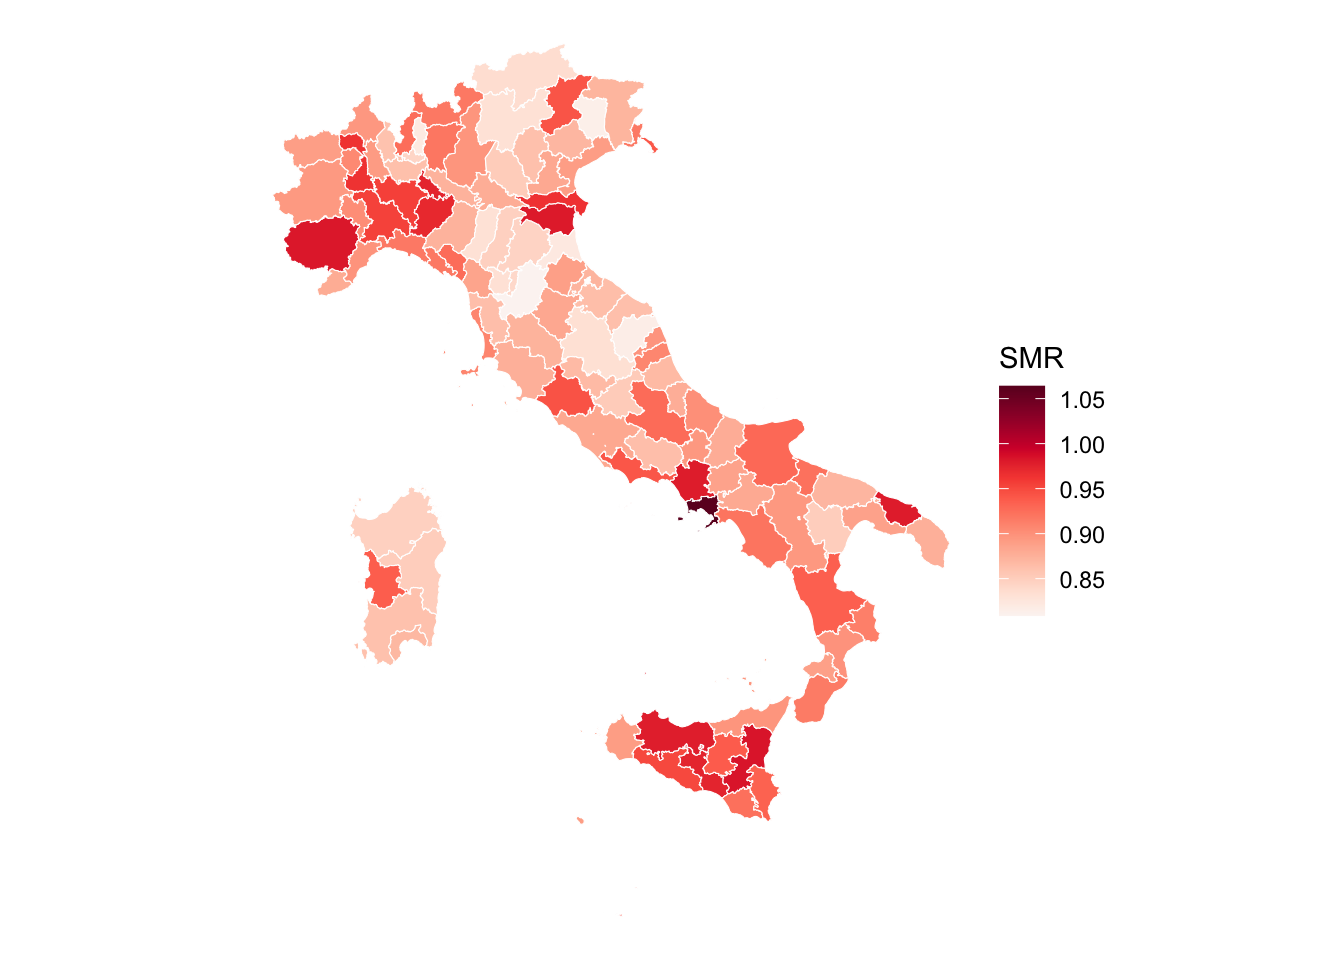
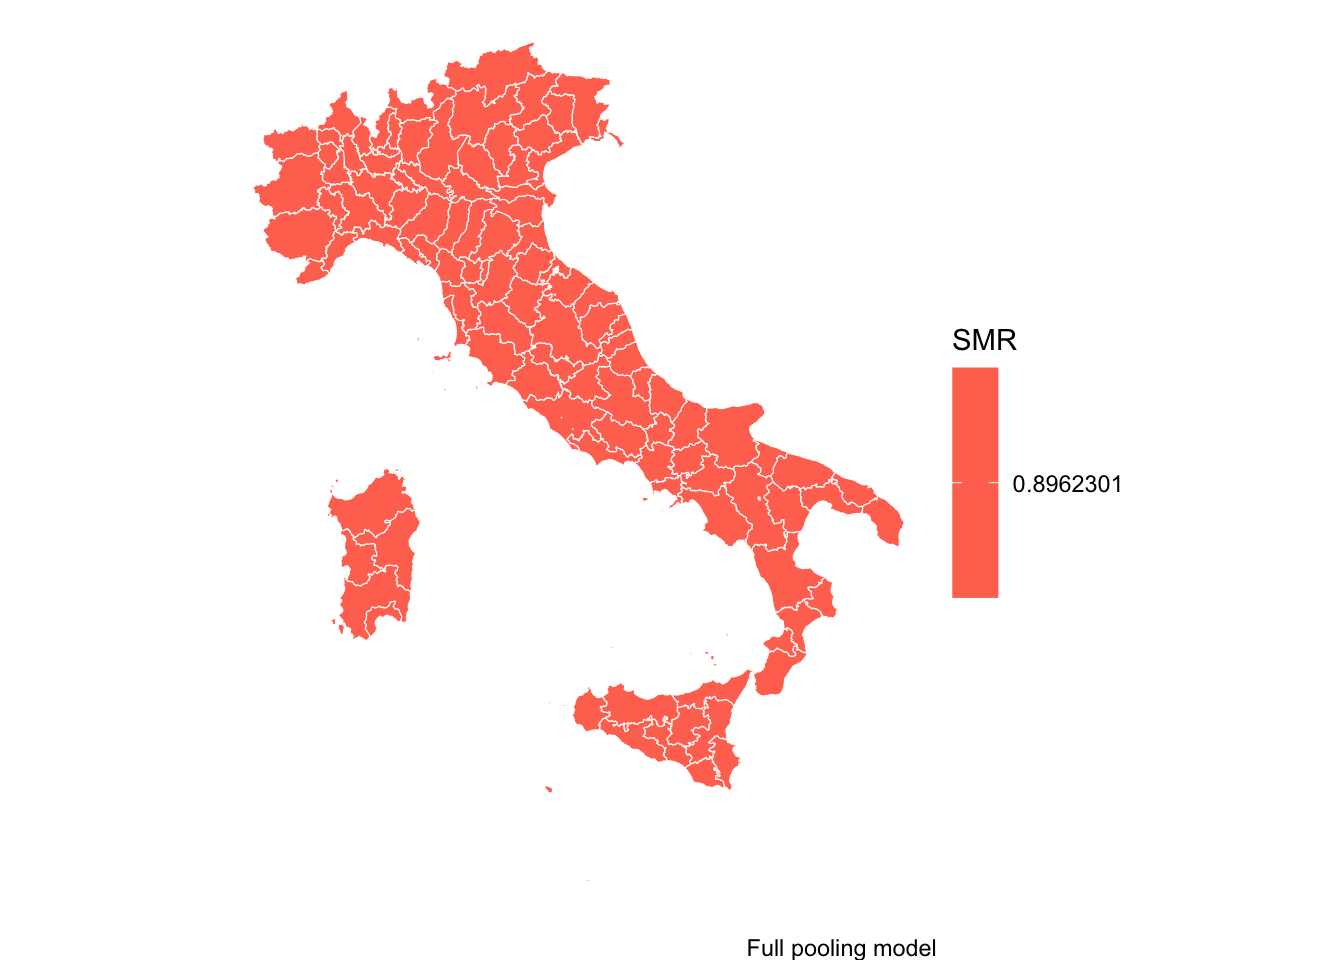
added updates for 2025

Changed region(s): [[0.1875, 0.0312, 0.8438, 0.875], [0.25, 0.4688, 0.3438, 0.6875], [0.5625, 0.9688, 0.6875, 1.0]]

diff --git a/labs/hierarchical_modelling/hierarchical_modelling.html b/labs/hierarchical_modelling/hierarchical_modelling.html
@@ -6,8 +6,8 @@
 
 <meta name="viewport" content="width=device-width, initial-scale=1.0, user-scalable=yes">
 
-<meta name="author" content="Robbie M. Parks, Theo Rashid, Elizaveta Semenova">
-<meta name="dcterms.date" content="2024-08-21">
+<meta name="author" content="Theo Rashid, Elizaveta Semenova, Robbie M. Parks">
+<meta name="dcterms.date" content="2025-08-14">
 
 <title>Hierarchical modelling</title>
 <style>
@@ -95,14 +95,14 @@ pre > code.sourceCode > span > a:first-child::before { text-decoration: underlin
     <div>
     <div class="quarto-title-meta-heading">Author</div>
     <div class="quarto-title-meta-contents">
-             <p>Robbie M. Parks, Theo Rashid, Elizaveta Semenova </p>
+             <p>Theo Rashid, Elizaveta Semenova, Robbie M. Parks </p>
           </div>
   </div>
     
     <div>
     <div class="quarto-title-meta-heading">Published</div>
     <div class="quarto-title-meta-contents">
-      <p class="date">August 21, 2024</p>
+      <p class="date">August 14, 2025</p>
     </div>
   </div>
   
@@ -239,7 +239,7 @@ $ week                    &lt;dbl&gt; 18, 18, 18, 19, 19, 19, 19, 19, 19, 19, 20
 <pre><code>Joining with `by = join_by(SIGLA)`</code></pre>
 </div>
 <div class="cell-output-display">
-<p><img src="hierarchical_modelling_files/figure-html/unnamed-chunk-5-1.png" class="img-fluid" width="672"></p>
+<p><img src="hierarchical_modelling_files/figure-html/unnamed-chunk-4-1.png" class="img-fluid" width="672"></p>
 </div>
 </div>
 <p>We have a variable <code>expected</code>, which gives a good (if a slight underestimation) approximation to the number of deaths.</p>
@@ -249,7 +249,7 @@ $ week                    &lt;dbl&gt; 18, 18, 18, 19, 19, 19, 19, 19, 19, 19, 20
 <span id="cb9-3"><a href="#cb9-3" aria-hidden="true" tabindex="-1"></a>  <span class="fu">geom_abline</span>(<span class="at">slope =</span> <span class="dv">1</span>, <span class="at">intercept =</span> <span class="dv">0</span>, <span class="at">linewidth =</span> <span class="fl">0.1</span>) <span class="sc">+</span></span>
 <span id="cb9-4"><a href="#cb9-4" aria-hidden="true" tabindex="-1"></a>  <span class="fu">geom_point</span>(<span class="at">size =</span> <span class="fl">0.3</span>)</span></code><button title="Copy to Clipboard" class="code-copy-button"><i class="bi"></i></button></pre></div>
 <div class="cell-output-display">
-<p><img src="hierarchical_modelling_files/figure-html/unnamed-chunk-6-1.png" class="img-fluid" width="672"></p>
+<p><img src="hierarchical_modelling_files/figure-html/unnamed-chunk-5-1.png" class="img-fluid" width="672"></p>
 </div>
 </div>
 <div class="cell">
@@ -260,7 +260,7 @@ $ week                    &lt;dbl&gt; 18, 18, 18, 19, 19, 19, 19, 19, 19, 19, 20
 <pre><code>`stat_bin()` using `bins = 30`. Pick better value with `binwidth`.</code></pre>
 </div>
 <div class="cell-output-display">
-<p><img src="hierarchical_modelling_files/figure-html/unnamed-chunk-7-1.png" class="img-fluid" width="672"></p>
+<p><img src="hierarchical_modelling_files/figure-html/unnamed-chunk-6-1.png" class="img-fluid" width="672"></p>
 </div>
 </div>
 <p>We are going to estimate the region-specific SMR. This is the ratio of actual deaths to expected deaths in each region.</p>
@@ -316,10 +316,11 @@ y_i &amp;\sim \text{Pois}(\mu_i) \quad i = 1,..., N \\
 <span id="cb14-8"><a href="#cb14-8" aria-hidden="true" tabindex="-1"></a>  <span class="at">nburnin =</span> <span class="dv">1000</span>,</span>
 <span id="cb14-9"><a href="#cb14-9" aria-hidden="true" tabindex="-1"></a>  <span class="at">thin =</span> <span class="dv">1</span>,</span>
 <span id="cb14-10"><a href="#cb14-10" aria-hidden="true" tabindex="-1"></a>  <span class="at">nchains =</span> <span class="dv">2</span>,</span>
-<span id="cb14-11"><a href="#cb14-11" aria-hidden="true" tabindex="-1"></a>  <span class="at">setSeed =</span> <span class="dv">1</span>,</span>
+<span id="cb14-11"><a href="#cb14-11" aria-hidden="true" tabindex="-1"></a>  <span class="co"># setSeed = 1,</span></span>
 <span id="cb14-12"><a href="#cb14-12" aria-hidden="true" tabindex="-1"></a>  <span class="at">samplesAsCodaMCMC =</span> <span class="cn">TRUE</span>,</span>
-<span id="cb14-13"><a href="#cb14-13" aria-hidden="true" tabindex="-1"></a>  <span class="at">progressBar =</span> <span class="cn">TRUE</span></span>
-<span id="cb14-14"><a href="#cb14-14" aria-hidden="true" tabindex="-1"></a>)</span></code><button title="Copy to Clipboard" class="code-copy-button"><i class="bi"></i></button></pre></div>
+<span id="cb14-13"><a href="#cb14-13" aria-hidden="true" tabindex="-1"></a>  <span class="at">progressBar =</span> <span class="cn">TRUE</span>,</span>
+<span id="cb14-14"><a href="#cb14-14" aria-hidden="true" tabindex="-1"></a>  <span class="at">WAIC =</span> <span class="cn">TRUE</span></span>
+<span id="cb14-15"><a href="#cb14-15" aria-hidden="true" tabindex="-1"></a>)</span></code><button title="Copy to Clipboard" class="code-copy-button"><i class="bi"></i></button></pre></div>
 <div class="cell-output cell-output-stderr">
 <pre><code>Defining model</code></pre>
 </div>
@@ -367,24 +368,24 @@ y_i &amp;\sim \text{Pois}(\mu_i) \quad i = 1,..., N \\
 </div>
 <p>Follow the Bayesian workflow: look at MCMC outputs, check convergence using r-hat.</p>
 <div class="cell">
-<div class="sourceCode cell-code" id="cb28"><pre class="sourceCode r code-with-copy"><code class="sourceCode r"><span id="cb28-1"><a href="#cb28-1" aria-hidden="true" tabindex="-1"></a><span class="fu">summarise_draws</span>(full_pooling_samples, <span class="fu">default_summary_measures</span>())</span></code><button title="Copy to Clipboard" class="code-copy-button"><i class="bi"></i></button></pre></div>
+<div class="sourceCode cell-code" id="cb28"><pre class="sourceCode r code-with-copy"><code class="sourceCode r"><span id="cb28-1"><a href="#cb28-1" aria-hidden="true" tabindex="-1"></a><span class="fu">summarise_draws</span>(full_pooling_samples<span class="sc">$</span>samples, <span class="fu">default_summary_measures</span>())</span></code><button title="Copy to Clipboard" class="code-copy-button"><i class="bi"></i></button></pre></div>
 <div class="cell-output cell-output-stdout">
 <pre><code># A tibble: 1 × 7
   variable   mean median      sd     mad     q5    q95
   &lt;chr&gt;     &lt;dbl&gt;  &lt;dbl&gt;   &lt;dbl&gt;   &lt;dbl&gt;  &lt;dbl&gt;  &lt;dbl&gt;
-1 alpha    -0.109 -0.109 0.00464 0.00459 -0.117 -0.102</code></pre>
+1 alpha    -0.109 -0.110 0.00436 0.00430 -0.117 -0.102</code></pre>
 </div>
-<div class="sourceCode cell-code" id="cb30"><pre class="sourceCode r code-with-copy"><code class="sourceCode r"><span id="cb30-1"><a href="#cb30-1" aria-hidden="true" tabindex="-1"></a><span class="fu">summarise_draws</span>(full_pooling_samples, <span class="fu">default_convergence_measures</span>())</span></code><button title="Copy to Clipboard" class="code-copy-button"><i class="bi"></i></button></pre></div>
+<div class="sourceCode cell-code" id="cb30"><pre class="sourceCode r code-with-copy"><code class="sourceCode r"><span id="cb30-1"><a href="#cb30-1" aria-hidden="true" tabindex="-1"></a><span class="fu">summarise_draws</span>(full_pooling_samples<span class="sc">$</span>samples, <span class="fu">default_convergence_measures</span>())</span></code><button title="Copy to Clipboard" class="code-copy-button"><i class="bi"></i></button></pre></div>
 <div class="cell-output cell-output-stdout">
 <pre><code># A tibble: 1 × 4
   variable  rhat ess_bulk ess_tail
   &lt;chr&gt;    &lt;dbl&gt;    &lt;dbl&gt;    &lt;dbl&gt;
-1 alpha     1.00     344.     569.</code></pre>
+1 alpha     1.00     517.     522.</code></pre>
 </div>
 </div>
 <p>Let’s plot the SMR in each province.</p>
 <div class="cell">
-<div class="sourceCode cell-code" id="cb32"><pre class="sourceCode r code-with-copy"><code class="sourceCode r"><span id="cb32-1"><a href="#cb32-1" aria-hidden="true" tabindex="-1"></a>full_pooling_posterior <span class="ot">&lt;-</span> <span class="fu">as_draws_array</span>(full_pooling_samples)</span>
+<div class="sourceCode cell-code" id="cb32"><pre class="sourceCode r code-with-copy"><code class="sourceCode r"><span id="cb32-1"><a href="#cb32-1" aria-hidden="true" tabindex="-1"></a>full_pooling_posterior <span class="ot">&lt;-</span> <span class="fu">as_draws_array</span>(full_pooling_samples<span class="sc">$</span>samples)</span>
 <span id="cb32-2"><a href="#cb32-2" aria-hidden="true" tabindex="-1"></a></span>
 <span id="cb32-3"><a href="#cb32-3" aria-hidden="true" tabindex="-1"></a>SMR_full_pooling <span class="ot">&lt;-</span> <span class="fu">exp</span>(full_pooling_posterior[, , <span class="st">"alpha"</span>]) <span class="sc">|&gt;</span></span>
 <span id="cb32-4"><a href="#cb32-4" aria-hidden="true" tabindex="-1"></a>  <span class="fu">apply</span>(<span class="at">MARGIN =</span> <span class="dv">3</span>, <span class="at">FUN =</span> median)</span>
@@ -398,7 +399,7 @@ y_i &amp;\sim \text{Pois}(\mu_i) \quad i = 1,..., N \\
 <span id="cb32-12"><a href="#cb32-12" aria-hidden="true" tabindex="-1"></a></span>
 <span id="cb32-13"><a href="#cb32-13" aria-hidden="true" tabindex="-1"></a>p_full</span></code><button title="Copy to Clipboard" class="code-copy-button"><i class="bi"></i></button></pre></div>
 <div class="cell-output-display">
-<p><img src="hierarchical_modelling_files/figure-html/unnamed-chunk-12-1.png" class="img-fluid" width="672"></p>
+<p><img src="hierarchical_modelling_files/figure-html/unnamed-chunk-11-1.png" class="img-fluid" width="672"></p>
 </div>
 </div>
 <p>Pretty boring, eh?</p>
@@ -451,10 +452,11 @@ y_i &amp;\sim \text{Pois}(\mu_i) \quad i = 1,..., N \\
 <span id="cb35-8"><a href="#cb35-8" aria-hidden="true" tabindex="-1"></a>  <span class="at">nburnin =</span> <span class="dv">1000</span>,</span>
 <span id="cb35-9"><a href="#cb35-9" aria-hidden="true" tabindex="-1"></a>  <span class="at">thin =</span> <span class="dv">1</span>,</span>
 <span id="cb35-10"><a href="#cb35-10" aria-hidden="true" tabindex="-1"></a>  <span class="at">nchains =</span> <span class="dv">2</span>,</span>
-<span id="cb35-11"><a href="#cb35-11" aria-hidden="true" tabindex="-1"></a>  <span class="at">setSeed =</span> <span class="dv">1</span>,</span>
+<span id="cb35-11"><a href="#cb35-11" aria-hidden="true" tabindex="-1"></a>  <span class="co"># setSeed = 1,</span></span>
 <span id="cb35-12"><a href="#cb35-12" aria-hidden="true" tabindex="-1"></a>  <span class="at">samplesAsCodaMCMC =</span> <span class="cn">TRUE</span>,</span>
-<span id="cb35-13"><a href="#cb35-13" aria-hidden="true" tabindex="-1"></a>  <span class="at">progressBar =</span> <span class="cn">TRUE</span></span>
-<span id="cb35-14"><a href="#cb35-14" aria-hidden="true" tabindex="-1"></a>)</span></code><button title="Copy to Clipboard" class="code-copy-button"><i class="bi"></i></button></pre></div>
+<span id="cb35-13"><a href="#cb35-13" aria-hidden="true" tabindex="-1"></a>  <span class="at">progressBar =</span> <span class="cn">TRUE</span>,</span>
+<span id="cb35-14"><a href="#cb35-14" aria-hidden="true" tabindex="-1"></a>  <span class="at">WAIC =</span> <span class="cn">TRUE</span></span>
+<span id="cb35-15"><a href="#cb35-15" aria-hidden="true" tabindex="-1"></a>)</span></code><button title="Copy to Clipboard" class="code-copy-button"><i class="bi"></i></button></pre></div>
 <div class="cell-output cell-output-stderr">
 <pre><code>Defining model</code></pre>
 </div>
@@ -491,48 +493,49 @@ y_i &amp;\sim \text{Pois}(\mu_i) \quad i = 1,..., N \\
 </div>
 <div class="cell-output cell-output-stdout">
 <pre><code>|-------------|-------------|-------------|-------------|
-|-------------------------------------------------------|</code></pre>
+|-------------------------------------------------------|
+  [Warning] There are 4 individual pWAIC values that are greater than 0.4. This may indicate that the WAIC estimate is unstable (Vehtari et al., 2017), at least in cases without grouping of data nodes or multivariate data nodes.</code></pre>
 </div>
 </div>
 <div class="cell">
-<div class="sourceCode cell-code" id="cb47"><pre class="sourceCode r code-with-copy"><code class="sourceCode r"><span id="cb47-1"><a href="#cb47-1" aria-hidden="true" tabindex="-1"></a><span class="fu">summarise_draws</span>(no_pooling_samples, <span class="fu">default_summary_measures</span>())</span></code><button title="Copy to Clipboard" class="code-copy-button"><i class="bi"></i></button></pre></div>
+<div class="sourceCode cell-code" id="cb47"><pre class="sourceCode r code-with-copy"><code class="sourceCode r"><span id="cb47-1"><a href="#cb47-1" aria-hidden="true" tabindex="-1"></a><span class="fu">summarise_draws</span>(no_pooling_samples<span class="sc">$</span>samples, <span class="fu">default_summary_measures</span>())</span></code><button title="Copy to Clipboard" class="code-copy-button"><i class="bi"></i></button></pre></div>
 <div class="cell-output cell-output-stdout">
 <pre><code># A tibble: 107 × 7
-   variable      mean   median     sd    mad      q5      q95
-   &lt;chr&gt;        &lt;dbl&gt;    &lt;dbl&gt;  &lt;dbl&gt;  &lt;dbl&gt;   &lt;dbl&gt;    &lt;dbl&gt;
- 1 alpha[1]  -0.00889 -0.00494 0.0552 0.0553 -0.101   0.0793 
- 2 alpha[2]  -0.00852 -0.00731 0.0431 0.0442 -0.0817  0.0602 
- 3 alpha[3]  -0.169   -0.169   0.0491 0.0490 -0.252  -0.0915 
- 4 alpha[4]  -0.134   -0.135   0.0966 0.0976 -0.298   0.0273 
- 5 alpha[5]  -0.0901  -0.0896  0.0729 0.0708 -0.207   0.0383 
- 6 alpha[6]  -0.0525  -0.0529  0.0616 0.0612 -0.156   0.0473 
- 7 alpha[7]  -0.137   -0.136   0.0590 0.0612 -0.234  -0.0459 
- 8 alpha[8]  -0.119   -0.115   0.0706 0.0695 -0.235  -0.00976
- 9 alpha[9]  -0.138   -0.136   0.0554 0.0579 -0.228  -0.0496 
-10 alpha[10] -0.145   -0.145   0.0346 0.0339 -0.199  -0.0862 
+   variable      mean   median     sd    mad      q5        q95
+   &lt;chr&gt;        &lt;dbl&gt;    &lt;dbl&gt;  &lt;dbl&gt;  &lt;dbl&gt;   &lt;dbl&gt;      &lt;dbl&gt;
+ 1 alpha[1]  -0.00930 -0.00951 0.0525 0.0523 -0.0922  0.0781   
+ 2 alpha[2]  -0.00762 -0.00608 0.0461 0.0488 -0.0808  0.0657   
+ 3 alpha[3]  -0.164   -0.165   0.0516 0.0484 -0.243  -0.0726   
+ 4 alpha[4]  -0.148   -0.150   0.104  0.101  -0.311   0.0217   
+ 5 alpha[5]  -0.0889  -0.0892  0.0733 0.0757 -0.208   0.0259   
+ 6 alpha[6]  -0.0540  -0.0580  0.0608 0.0640 -0.152   0.0457   
+ 7 alpha[7]  -0.125   -0.127   0.0575 0.0549 -0.221  -0.0320   
+ 8 alpha[8]  -0.117   -0.124   0.0720 0.0780 -0.230  -0.0000123
+ 9 alpha[9]  -0.138   -0.136   0.0547 0.0539 -0.227  -0.0473   
+10 alpha[10] -0.144   -0.145   0.0358 0.0358 -0.203  -0.0843   
 # ℹ 97 more rows</code></pre>
 </div>
-<div class="sourceCode cell-code" id="cb49"><pre class="sourceCode r code-with-copy"><code class="sourceCode r"><span id="cb49-1"><a href="#cb49-1" aria-hidden="true" tabindex="-1"></a><span class="fu">summarise_draws</span>(no_pooling_samples, <span class="fu">default_convergence_measures</span>())</span></code><button title="Copy to Clipboard" class="code-copy-button"><i class="bi"></i></button></pre></div>
+<div class="sourceCode cell-code" id="cb49"><pre class="sourceCode r code-with-copy"><code class="sourceCode r"><span id="cb49-1"><a href="#cb49-1" aria-hidden="true" tabindex="-1"></a><span class="fu">summarise_draws</span>(no_pooling_samples<span class="sc">$</span>samples, <span class="fu">default_convergence_measures</span>())</span></code><button title="Copy to Clipboard" class="code-copy-button"><i class="bi"></i></button></pre></div>
 <div class="cell-output cell-output-stdout">
 <pre><code># A tibble: 107 × 4
    variable   rhat ess_bulk ess_tail
    &lt;chr&gt;     &lt;dbl&gt;    &lt;dbl&gt;    &lt;dbl&gt;
- 1 alpha[1]   1.01     448.     557.
- 2 alpha[2]   1.00     655.     510.
- 3 alpha[3]   1.01     387.     376.
- 4 alpha[4]   1.00     538.     528.
- 5 alpha[5]   1.00     351.     264.
- 6 alpha[6]   1.00     426.     483.
- 7 alpha[7]   1.01     448.     375.
- 8 alpha[8]   1.01     511.     558.
- 9 alpha[9]   1.01     441.     591.
-10 alpha[10]  1.01     464.     588.
+ 1 alpha[1]   1.01     506.     486.
+ 2 alpha[2]   1.01     434.     453.
+ 3 alpha[3]   1.00     459.     505.
+ 4 alpha[4]   1.00     452.     379.
+ 5 alpha[5]   1.02     560.     590.
+ 6 alpha[6]   1.01     508.     498.
+ 7 alpha[7]   1.00     490.     425.
+ 8 alpha[8]   1.01     565.     558.
+ 9 alpha[9]   1.00     494.     761.
+10 alpha[10]  1.00     446.     454.
 # ℹ 97 more rows</code></pre>
 </div>
 </div>
 <p>The SMR in each province</p>
 <div class="cell">
-<div class="sourceCode cell-code" id="cb51"><pre class="sourceCode r code-with-copy"><code class="sourceCode r"><span id="cb51-1"><a href="#cb51-1" aria-hidden="true" tabindex="-1"></a>no_pooling_posterior <span class="ot">&lt;-</span> <span class="fu">as_draws_array</span>(no_pooling_samples)</span>
+<div class="sourceCode cell-code" id="cb51"><pre class="sourceCode r code-with-copy"><code class="sourceCode r"><span id="cb51-1"><a href="#cb51-1" aria-hidden="true" tabindex="-1"></a>no_pooling_posterior <span class="ot">&lt;-</span> <span class="fu">as_draws_array</span>(no_pooling_samples<span class="sc">$</span>samples)</span>
 <span id="cb51-2"><a href="#cb51-2" aria-hidden="true" tabindex="-1"></a></span>
 <span id="cb51-3"><a href="#cb51-3" aria-hidden="true" tabindex="-1"></a>SMR_no_pooling <span class="ot">&lt;-</span> <span class="fu">exp</span>(no_pooling_posterior[, , <span class="dv">1</span><span class="sc">:</span><span class="dv">107</span>]) <span class="sc">|&gt;</span></span>
 <span id="cb51-4"><a href="#cb51-4" aria-hidden="true" tabindex="-1"></a>  <span class="fu">apply</span>(<span class="at">MARGIN =</span> <span class="dv">3</span>, <span class="at">FUN =</span> median)</span>
@@ -546,7 +549,7 @@ y_i &amp;\sim \text{Pois}(\mu_i) \quad i = 1,..., N \\
 <span id="cb51-12"><a href="#cb51-12" aria-hidden="true" tabindex="-1"></a></span>
 <span id="cb51-13"><a href="#cb51-13" aria-hidden="true" tabindex="-1"></a>p_no</span></code><button title="Copy to Clipboard" class="code-copy-button"><i class="bi"></i></button></pre></div>
 <div class="cell-output-display">
-<p><img src="hierarchical_modelling_files/figure-html/unnamed-chunk-17-1.png" class="img-fluid" width="672"></p>
+<p><img src="hierarchical_modelling_files/figure-html/unnamed-chunk-16-1.png" class="img-fluid" width="672"></p>
 </div>
 </div>
 </section>
@@ -608,10 +611,11 @@ y_i &amp;\sim \text{Pois}(\mu_i) \quad i = 1,..., N \\
 <span id="cb54-8"><a href="#cb54-8" aria-hidden="true" tabindex="-1"></a>  <span class="at">nburnin =</span> <span class="dv">1000</span>,</span>
 <span id="cb54-9"><a href="#cb54-9" aria-hidden="true" tabindex="-1"></a>  <span class="at">thin =</span> <span class="dv">1</span>,</span>
 <span id="cb54-10"><a href="#cb54-10" aria-hidden="true" tabindex="-1"></a>  <span class="at">nchains =</span> <span class="dv">2</span>,</span>
-<span id="cb54-11"><a href="#cb54-11" aria-hidden="true" tabindex="-1"></a>  <span class="at">setSeed =</span> <span class="dv">1</span>,</span>
+<span id="cb54-11"><a href="#cb54-11" aria-hidden="true" tabindex="-1"></a>  <span class="co"># setSeed = 1,</span></span>
 <span id="cb54-12"><a href="#cb54-12" aria-hidden="true" tabindex="-1"></a>  <span class="at">samplesAsCodaMCMC =</span> <span class="cn">TRUE</span>,</span>
-<span id="cb54-13"><a href="#cb54-13" aria-hidden="true" tabindex="-1"></a>  <span class="at">progressBar =</span> <span class="cn">TRUE</span></span>
-<span id="cb54-14"><a href="#cb54-14" aria-hidden="true" tabindex="-1"></a>)</span></code><button title="Copy to Clipboard" class="code-copy-button"><i class="bi"></i></button></pre></div>
+<span id="cb54-13"><a href="#cb54-13" aria-hidden="true" tabindex="-1"></a>  <span class="at">progressBar =</span> <span class="cn">TRUE</span>,</span>
+<span id="cb54-14"><a href="#cb54-14" aria-hidden="true" tabindex="-1"></a>  <span class="at">WAIC =</span> <span class="cn">TRUE</span></span>
+<span id="cb54-15"><a href="#cb54-15" aria-hidden="true" tabindex="-1"></a>)</span></code><button title="Copy to Clipboard" class="code-copy-button"><i class="bi"></i></button></pre></div>
 <div class="cell-output cell-output-stderr">
 <pre><code>Defining model</code></pre>
 </div>
@@ -652,51 +656,51 @@ y_i &amp;\sim \text{Pois}(\mu_i) \quad i = 1,..., N \\
 </div>
 </div>
 <div class="cell">
-<div class="sourceCode cell-code" id="cb66"><pre class="sourceCode r code-with-copy"><code class="sourceCode r"><span id="cb66-1"><a href="#cb66-1" aria-hidden="true" tabindex="-1"></a><span class="fu">summarise_draws</span>(partial_pooling_samples, <span class="fu">default_summary_measures</span>())</span></code><button title="Copy to Clipboard" class="code-copy-button"><i class="bi"></i></button></pre></div>
+<div class="sourceCode cell-code" id="cb66"><pre class="sourceCode r code-with-copy"><code class="sourceCode r"><span id="cb66-1"><a href="#cb66-1" aria-hidden="true" tabindex="-1"></a><span class="fu">summarise_draws</span>(partial_pooling_samples<span class="sc">$</span>samples, <span class="fu">default_summary_measures</span>())</span></code><button title="Copy to Clipboard" class="code-copy-button"><i class="bi"></i></button></pre></div>
 <div class="cell-output cell-output-stdout">
 <pre><code># A tibble: 109 × 7
-   variable     mean   median      sd     mad        q5     q95
-   &lt;chr&gt;       &lt;dbl&gt;    &lt;dbl&gt;   &lt;dbl&gt;   &lt;dbl&gt;     &lt;dbl&gt;   &lt;dbl&gt;
- 1 alpha    -0.110   -0.110   0.00849 0.00873 -0.124    -0.0958
- 2 sigma_p   0.0676   0.0670  0.00726 0.00693  0.0556    0.0802
- 3 theta[1]  0.0614   0.0607  0.0424  0.0400  -0.00735   0.132 
- 4 theta[2]  0.0647   0.0640  0.0394  0.0369   0.000999  0.131 
- 5 theta[3] -0.0400  -0.0369  0.0398  0.0378  -0.107     0.0224
- 6 theta[4] -0.00912 -0.00536 0.0555  0.0546  -0.0974    0.0780
- 7 theta[5]  0.0137   0.0125  0.0508  0.0489  -0.0682    0.104 
- 8 theta[6]  0.0337   0.0305  0.0446  0.0428  -0.0366    0.108 
- 9 theta[7] -0.0137  -0.0123  0.0450  0.0448  -0.0865    0.0567
-10 theta[8]  0.00298  0.00716 0.0505  0.0486  -0.0783    0.0843
+   variable     mean   median      sd     mad       q5     q95
+   &lt;chr&gt;       &lt;dbl&gt;    &lt;dbl&gt;   &lt;dbl&gt;   &lt;dbl&gt;    &lt;dbl&gt;   &lt;dbl&gt;
+ 1 alpha    -0.112   -0.112   0.00846 0.00902 -0.125   -0.0982
+ 2 sigma_p   0.0682   0.0682  0.00791 0.00845  0.0552   0.0807
+ 3 theta[1]  0.0665   0.0651  0.0424  0.0389  -0.00165  0.137 
+ 4 theta[2]  0.0694   0.0686  0.0401  0.0412   0.00502  0.135 
+ 5 theta[3] -0.0349  -0.0333  0.0383  0.0400  -0.0986   0.0288
+ 6 theta[4] -0.00675 -0.0108  0.0574  0.0510  -0.0999   0.0859
+ 7 theta[5]  0.0113   0.00998 0.0475  0.0452  -0.0644   0.0900
+ 8 theta[6]  0.0356   0.0356  0.0464  0.0440  -0.0480   0.114 
+ 9 theta[7] -0.0122  -0.00940 0.0419  0.0432  -0.0796   0.0543
+10 theta[8] -0.00292 -0.00411 0.0530  0.0524  -0.0922   0.0820
 # ℹ 99 more rows</code></pre>
 </div>
-<div class="sourceCode cell-code" id="cb68"><pre class="sourceCode r code-with-copy"><code class="sourceCode r"><span id="cb68-1"><a href="#cb68-1" aria-hidden="true" tabindex="-1"></a><span class="fu">summarise_draws</span>(partial_pooling_samples, <span class="fu">default_convergence_measures</span>())</span></code><button title="Copy to Clipboard" class="code-copy-button"><i class="bi"></i></button></pre></div>
+<div class="sourceCode cell-code" id="cb68"><pre class="sourceCode r code-with-copy"><code class="sourceCode r"><span id="cb68-1"><a href="#cb68-1" aria-hidden="true" tabindex="-1"></a><span class="fu">summarise_draws</span>(partial_pooling_samples<span class="sc">$</span>samples, <span class="fu">default_convergence_measures</span>())</span></code><button title="Copy to Clipboard" class="code-copy-button"><i class="bi"></i></button></pre></div>
 <div class="cell-output cell-output-stdout">
 <pre><code># A tibble: 109 × 4
    variable  rhat ess_bulk ess_tail
    &lt;chr&gt;    &lt;dbl&gt;    &lt;dbl&gt;    &lt;dbl&gt;
- 1 alpha     1.01     80.2     170.
- 2 sigma_p   1.01    100.      219.
- 3 theta[1]  1.01    485.      533.
- 4 theta[2]  1.01    303.      319.
- 5 theta[3]  1.00    380.      418.
- 6 theta[4]  1.00    483.      387.
- 7 theta[5]  1.00    501.      428.
- 8 theta[6]  1.01    437.      479.
- 9 theta[7]  1.01    494.      454.
-10 theta[8]  1.01    470.      399.
+ 1 alpha    1.02      83.0     204.
+ 2 sigma_p  1.01      74.8     173.
+ 3 theta[1] 1.01     481.      465.
+ 4 theta[2] 1.01     447.      464.
+ 5 theta[3] 1.00     381.      533.
+ 6 theta[4] 1.01     434.      389.
+ 7 theta[5] 1.00     447.      448.
+ 8 theta[6] 1.000    416.      454.
+ 9 theta[7] 1.00     531.      573.
+10 theta[8] 1.01     442.      275.
 # ℹ 99 more rows</code></pre>
 </div>
 </div>
 <p>With more complicated models, sometimes it’s nice to see if the traceplots are working too.</p>
 <div class="cell">
-<div class="sourceCode cell-code" id="cb70"><pre class="sourceCode r code-with-copy"><code class="sourceCode r"><span id="cb70-1"><a href="#cb70-1" aria-hidden="true" tabindex="-1"></a><span class="fu">mcmc_trace</span>(partial_pooling_samples, <span class="at">regex_pars =</span> <span class="st">"alpha"</span>)</span></code><button title="Copy to Clipboard" class="code-copy-button"><i class="bi"></i></button></pre></div>
+<div class="sourceCode cell-code" id="cb70"><pre class="sourceCode r code-with-copy"><code class="sourceCode r"><span id="cb70-1"><a href="#cb70-1" aria-hidden="true" tabindex="-1"></a><span class="fu">mcmc_trace</span>(partial_pooling_samples<span class="sc">$</span>samples, <span class="at">regex_pars =</span> <span class="st">"alpha"</span>)</span></code><button title="Copy to Clipboard" class="code-copy-button"><i class="bi"></i></button></pre></div>
 <div class="cell-output-display">
-<p><img src="hierarchical_modelling_files/figure-html/unnamed-chunk-22-1.png" class="img-fluid" width="672"></p>
+<p><img src="hierarchical_modelling_files/figure-html/unnamed-chunk-21-1.png" class="img-fluid" width="672"></p>
 </div>
 </div>
 <p>There is a little bit more manipulation required to estimate the SMR for the more complicated model.</p>
 <div class="cell">
-<div class="sourceCode cell-code" id="cb71"><pre class="sourceCode r code-with-copy"><code class="sourceCode r"><span id="cb71-1"><a href="#cb71-1" aria-hidden="true" tabindex="-1"></a>partial_pooling_posterior <span class="ot">&lt;-</span> <span class="fu">as_draws_array</span>(partial_pooling_samples)</span>
+<div class="sourceCode cell-code" id="cb71"><pre class="sourceCode r code-with-copy"><code class="sourceCode r"><span id="cb71-1"><a href="#cb71-1" aria-hidden="true" tabindex="-1"></a>partial_pooling_posterior <span class="ot">&lt;-</span> <span class="fu">as_draws_array</span>(partial_pooling_samples<span class="sc">$</span>samples)</span>
 <span id="cb71-2"><a href="#cb71-2" aria-hidden="true" tabindex="-1"></a></span>
 <span id="cb71-3"><a href="#cb71-3" aria-hidden="true" tabindex="-1"></a>SMR_partial_pooling <span class="ot">&lt;-</span> <span class="fu">exp</span>(</span>
 <span id="cb71-4"><a href="#cb71-4" aria-hidden="true" tabindex="-1"></a>  <span class="fu">sweep</span>(</span>
@@ -717,7 +721,7 @@ y_i &amp;\sim \text{Pois}(\mu_i) \quad i = 1,..., N \\
 <span id="cb71-19"><a href="#cb71-19" aria-hidden="true" tabindex="-1"></a></span>
 <span id="cb71-20"><a href="#cb71-20" aria-hidden="true" tabindex="-1"></a>p_partial</span></code><button title="Copy to Clipboard" class="code-copy-button"><i class="bi"></i></button></pre></div>
 <div class="cell-output-display">
-<p><img src="hierarchical_modelling_files/figure-html/unnamed-chunk-23-1.png" class="img-fluid" width="672"></p>
+<p><img src="hierarchical_modelling_files/figure-html/unnamed-chunk-22-1.png" class="img-fluid" width="672"></p>
 </div>
 </div>
 </section>
@@ -727,18 +731,55 @@ y_i &amp;\sim \text{Pois}(\mu_i) \quad i = 1,..., N \\
 <div class="cell">
 <div class="sourceCode cell-code" id="cb72"><pre class="sourceCode r code-with-copy"><code class="sourceCode r"><span id="cb72-1"><a href="#cb72-1" aria-hidden="true" tabindex="-1"></a>p_full <span class="sc">+</span> <span class="fu">labs</span>(<span class="at">caption =</span> <span class="st">"Full pooling model"</span>)</span></code><button title="Copy to Clipboard" class="code-copy-button"><i class="bi"></i></button></pre></div>
 <div class="cell-output-display">
-<p><img src="hierarchical_modelling_files/figure-html/unnamed-chunk-24-1.png" class="img-fluid" width="672"></p>
+<p><img src="hierarchical_modelling_files/figure-html/unnamed-chunk-23-1.png" class="img-fluid" width="672"></p>
 </div>
 <div class="sourceCode cell-code" id="cb73"><pre class="sourceCode r code-with-copy"><code class="sourceCode r"><span id="cb73-1"><a href="#cb73-1" aria-hidden="true" tabindex="-1"></a>p_no <span class="sc">+</span> <span class="fu">labs</span>(<span class="at">caption =</span> <span class="st">"No pooling model"</span>)</span></code><button title="Copy to Clipboard" class="code-copy-button"><i class="bi"></i></button></pre></div>
 <div class="cell-output-display">
-<p><img src="hierarchical_modelling_files/figure-html/unnamed-chunk-24-2.png" class="img-fluid" width="672"></p>
+<p><img src="hierarchical_modelling_files/figure-html/unnamed-chunk-23-2.png" class="img-fluid" width="672"></p>
 </div>
 <div class="sourceCode cell-code" id="cb74"><pre class="sourceCode r code-with-copy"><code class="sourceCode r"><span id="cb74-1"><a href="#cb74-1" aria-hidden="true" tabindex="-1"></a>p_partial <span class="sc">+</span> <span class="fu">labs</span>(<span class="at">caption =</span> <span class="st">"Partial pooling model"</span>)</span></code><button title="Copy to Clipboard" class="code-copy-button"><i class="bi"></i></button></pre></div>
 <div class="cell-output-display">
-<p><img src="hierarchical_modelling_files/figure-html/unnamed-chunk-24-3.png" class="img-fluid" width="672"></p>
+<p><img src="hierarchical_modelling_files/figure-html/unnamed-chunk-23-3.png" class="img-fluid" width="672"></p>
 </div>
 </div>
 <p>There is clearly more smoothing in the partial pooling model.</p>
+<p>What about information criteria of each model (remember, lowest is the preferred choice)</p>
+<div class="cell">
+<div class="sourceCode cell-code" id="cb75"><pre class="sourceCode r code-with-copy"><code class="sourceCode r"><span id="cb75-1"><a href="#cb75-1" aria-hidden="true" tabindex="-1"></a>full_pooling_samples<span class="sc">$</span>WAIC</span></code><button title="Copy to Clipboard" class="code-copy-button"><i class="bi"></i></button></pre></div>
+<div class="cell-output cell-output-stdout">
+<pre><code>nimbleList object of type waicNimbleList
+Field "WAIC":
+[1] 17275.76
+Field "lppd":
+[1] -8636.775
+Field "pWAIC":
+[1] 1.106235</code></pre>
+</div>
+</div>
+<div class="cell">
+<div class="sourceCode cell-code" id="cb77"><pre class="sourceCode r code-with-copy"><code class="sourceCode r"><span id="cb77-1"><a href="#cb77-1" aria-hidden="true" tabindex="-1"></a>no_pooling_samples<span class="sc">$</span>WAIC</span></code><button title="Copy to Clipboard" class="code-copy-button"><i class="bi"></i></button></pre></div>
+<div class="cell-output cell-output-stdout">
+<pre><code>nimbleList object of type waicNimbleList
+Field "WAIC":
+[1] 17173.81
+Field "lppd":
+[1] -8475.219
+Field "pWAIC":
+[1] 111.6852</code></pre>
+</div>
+</div>
+<div class="cell">
+<div class="sourceCode cell-code" id="cb79"><pre class="sourceCode r code-with-copy"><code class="sourceCode r"><span id="cb79-1"><a href="#cb79-1" aria-hidden="true" tabindex="-1"></a>partial_pooling_samples<span class="sc">$</span>WAIC</span></code><button title="Copy to Clipboard" class="code-copy-button"><i class="bi"></i></button></pre></div>
+<div class="cell-output cell-output-stdout">
+<pre><code>nimbleList object of type waicNimbleList
+Field "WAIC":
+[1] 17127.24
+Field "lppd":
+[1] -8493.867
+Field "pWAIC":
+[1] 69.75487</code></pre>
+</div>
+</div>
 </section>
 <section id="closing-remarks" class="level2">
 <h2 class="anchored" data-anchor-id="closing-remarks">Closing remarks</h2>